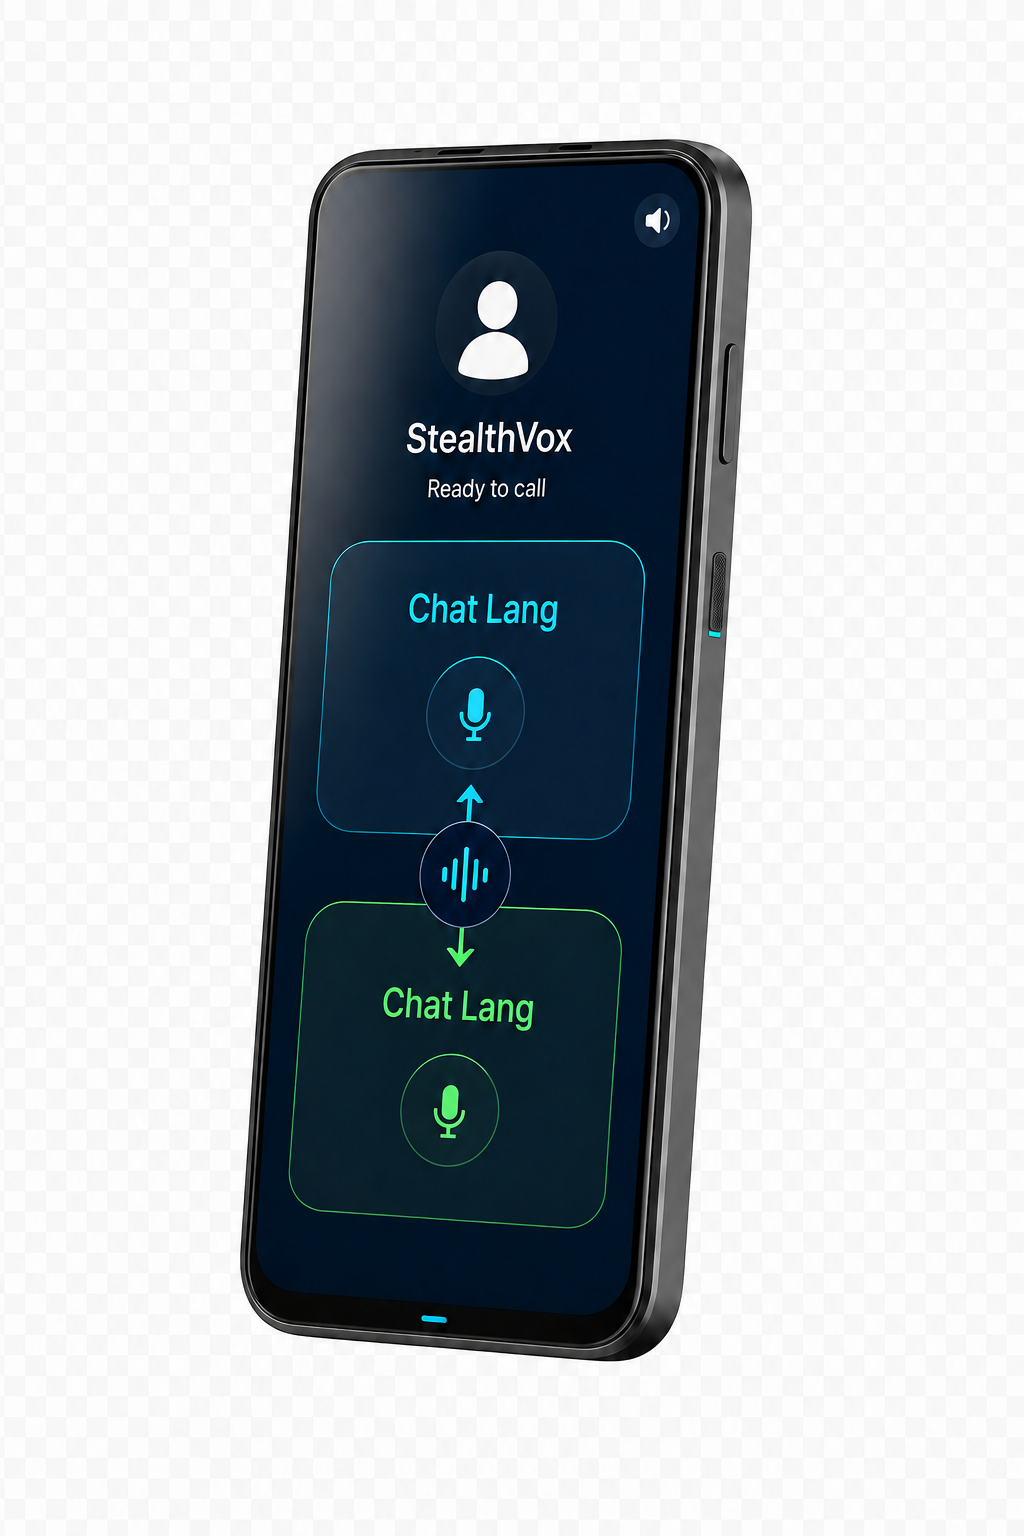
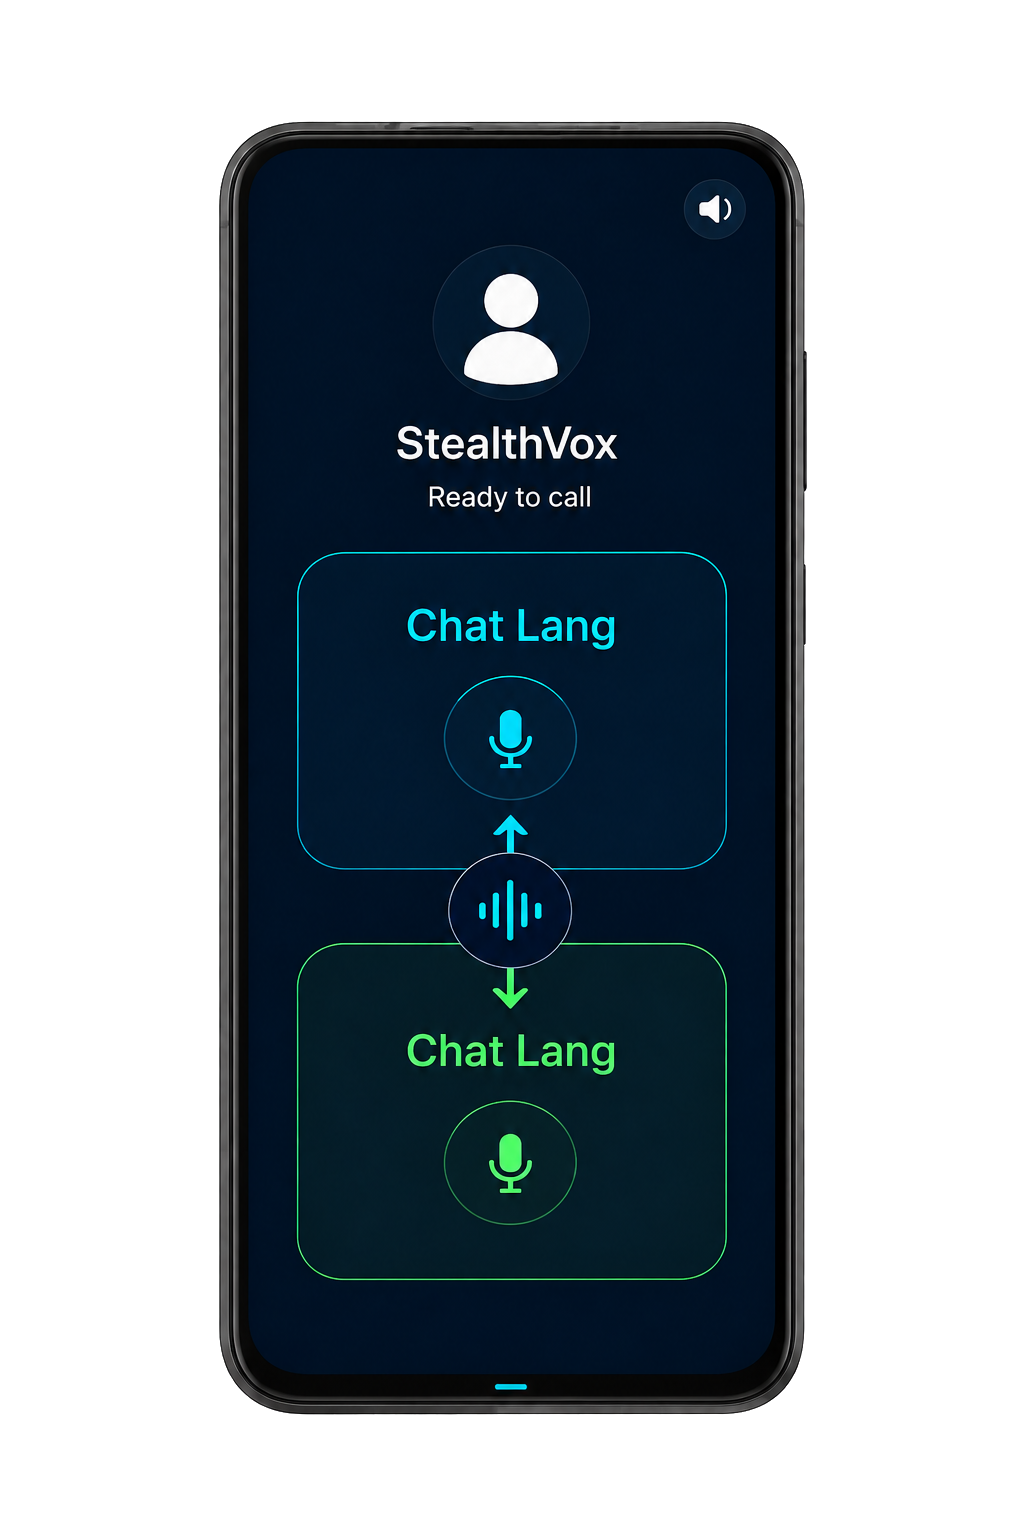
feat: Duo 통화 그림을 투명 배경으로 바꾸고 무대를 꽉 채운다
두 PNG 모두 알파가 없어 체커보드가 픽셀로 구워져 있었다. 가장자리에서
번지는 방식으로 배경만 지운다. 만능 통역은 정면 그림으로 갈고, 위에 있던
"나 / 상대" 언어 칩을 없애 두 방식이 같은 크기로 보이게 한다.

Changed region(s): [[0.1875, 0.0625, 0.8125, 0.9375]]

diff --git a/lib/custom_code/widgets/duo_stage.dart b/lib/custom_code/widgets/duo_stage.dart
@@ -1,24 +1,23 @@
 import 'package:flutter/material.dart';
 
 // ============================================================================
-// 🖼 [DUO-STAGE] 말풍선이 없을 때 화면 가운데를 채우는 그림들.
+// 🖼 [DUO-STAGE] 통화 화면 가운데를 채우는 그림들.
 //
-// 예전에는 두 방식 모두 안내 문장 한 줄이었다. 직접 대화는 양쪽이 들어오면
-// 마이크가 자동으로 켜지므로 시킬 일이 없고, 만능 통역은 "무슨 언어가 오가는지"가
-// 문장보다 훨씬 중요한 정보였다. 그래서 문장을 걷어내고 각자에게 맞는 그림을 둔다.
+// 두 방식 모두 자막을 만들지 않는다. 그래서 이 화면에는 글자가 없고, 방식마다
+// 그림 한 장이 무대를 통째로 쓴다. 예전에는 안내 문장 한 줄과 "나 / 상대"
+// 언어 칩이 있었는데, 직접 대화는 양쪽이 들어오면 마이크가 알아서 켜지므로
+// 시킬 일이 없고 언어쌍도 그림이 대신 말해 준다.
 //
 // **이 파일은 Firebase도 앱 상태도 모른다.** 필요한 값만 인자로 받는다.
 // 화면 없이 띄워 보고 눈으로 확인할 수 있어야 해서 일부러 갈라놨다.
 // ============================================================================
 
-const Color kDuoStageBg = Color(0xFF121212);
-const Color kDuoStagePanel = Color(0xFF1C1C1E);
-const Color kDuoStageLive = Color(0xFF34D399);
-const Color kDuoStageBlue = Color(0xFF2563EB);
-const Color kDuoStageMine = Color(0xFF93C5FD);
-const Color kDuoStageTheirs = Color(0xFF4ADE80);
-
-/// 직접 대화 — 제공된 직접 통화 이미지를 화면 중앙에 표시한다.
+/// 직접 대화 — 제공된 직접 통화 이미지를 무대 전체에 채운다.
+///
+/// 📐 이미지는 폰 주위가 **투명**이다. 그래서 폭·높이를 줄여 잡을 이유가 없다
+///   — 남는 자리는 어차피 배경이 그대로 비쳐 보인다. 예전에는 0.72×0.82로
+///   묶고 모서리를 둥글렸는데, 자를 것도 없는 그림을 작게 만들기만 했다.
+///   `contain`이라 비율은 그대로고 잘리지도 않는다.
 class DuoDirectStage extends StatelessWidget {
   const DuoDirectStage({
     super.key,
@@ -40,113 +39,25 @@ class DuoDirectStage extends StatelessWidget {
             ? 0.84
             : 0.62;
 
-    return LayoutBuilder(
-      builder: (context, constraints) => Center(
-        child: AnimatedOpacity(
-          duration: const Duration(milliseconds: 260),
-          opacity: opacity,
-          child: ConstrainedBox(
-            constraints: BoxConstraints(
-              maxWidth: constraints.maxWidth * 0.72,
-              maxHeight: constraints.maxHeight * 0.82,
-            ),
-            child: ClipRRect(
-              borderRadius: BorderRadius.circular(22),
-              child: Image.asset(
-                'assets/images/duo_direct_call.png',
-                fit: BoxFit.contain,
-                filterQuality: FilterQuality.high,
-              ),
-            ),
-          ),
+    return AnimatedOpacity(
+      duration: const Duration(milliseconds: 260),
+      opacity: opacity,
+      child: SizedBox.expand(
+        child: Image.asset(
+          'assets/images/duo_direct_call.png',
+          fit: BoxFit.contain,
+          filterQuality: FilterQuality.high,
         ),
       ),
     );
   }
 }
 
-/// 만능 통역 — 무슨 언어가 어디로 가는지.
+/// 만능 통역 — 제공된 통역기 이미지를 무대 전체에 채운다.
 ///
-/// 상대 언어는 세션 문서에서 받는다. 아직 모르면 `—`로 둔다 — 아무거나 채워
-/// 넣으면 사용자가 잘못된 언어쌍을 믿는다.
-class DuoLangPairBar extends StatelessWidget {
-  const DuoLangPairBar({super.key, required this.mine, this.theirs});
-
-  final String mine;
-  final String? theirs;
-
-  @override
-  Widget build(BuildContext context) {
-    return Padding(
-      padding: const EdgeInsets.fromLTRB(16, 4, 16, 10),
-      child: Row(
-        children: [
-          Expanded(
-              child: _LangChip(
-                  lang: mine, who: '나', color: kDuoStageMine, known: true)),
-          const Padding(
-            padding: EdgeInsets.symmetric(horizontal: 10),
-            child:
-                Icon(Icons.swap_horiz_rounded, color: Colors.white38, size: 22),
-          ),
-          Expanded(
-            child: _LangChip(
-                lang: theirs ?? '—',
-                who: '상대',
-                color: kDuoStageTheirs,
-                known: theirs != null),
-          ),
-        ],
-      ),
-    );
-  }
-}
-
-class _LangChip extends StatelessWidget {
-  const _LangChip(
-      {required this.lang,
-      required this.who,
-      required this.color,
-      required this.known});
-
-  final String lang;
-  final String who;
-  final Color color;
-  final bool known;
-
-  @override
-  Widget build(BuildContext context) {
-    return Container(
-      padding: const EdgeInsets.symmetric(vertical: 10, horizontal: 12),
-      decoration: BoxDecoration(
-        color: kDuoStagePanel,
-        borderRadius: BorderRadius.circular(14),
-        border: Border.all(
-            color: known
-                ? color.withValues(alpha: 0.45)
-                : const Color(0xFF33384A)),
-      ),
-      child: Column(
-        crossAxisAlignment: CrossAxisAlignment.start,
-        mainAxisSize: MainAxisSize.min,
-        children: [
-          Text(who,
-              style: const TextStyle(color: Colors.white38, fontSize: 11)),
-          const SizedBox(height: 2),
-          Text(lang,
-              maxLines: 1,
-              overflow: TextOverflow.ellipsis,
-              style: TextStyle(
-                  color: known ? color : Colors.white38,
-                  fontSize: 15,
-                  fontWeight: FontWeight.bold)),
-        ],
-      ),
-    );
-  }
-}
-
-/// 만능 통역 — 제공된 통역기 이미지를 화면 중앙에 표시한다.
+/// 📐 [DuoDirectStage]와 같은 규칙이다. 폰 주위가 투명이라 줄여 잡을 이유가
+///   없고, `contain`이라 비율도 그대로다. 두 방식의 그림 크기가 같아야
+///   방식을 오갈 때 화면이 덜컹거리지 않는다.
 class DuoInterpreterStage extends StatelessWidget {
   const DuoInterpreterStage({super.key, required this.recording});
 
@@ -154,25 +65,14 @@ class DuoInterpreterStage extends StatelessWidget {
 
   @override
   Widget build(BuildContext context) {
-    return LayoutBuilder(
-      builder: (context, constraints) => Center(
-        child: AnimatedOpacity(
-          duration: const Duration(milliseconds: 260),
-          opacity: recording ? 1 : 0.72,
-          child: ConstrainedBox(
-            constraints: BoxConstraints(
-              maxWidth: constraints.maxWidth * 0.72,
-              maxHeight: constraints.maxHeight * 0.82,
-            ),
-            child: ClipRRect(
-              borderRadius: BorderRadius.circular(22),
-              child: Image.asset(
-                'assets/images/duo_interpreter.png',
-                fit: BoxFit.contain,
-                filterQuality: FilterQuality.high,
-              ),
-            ),
-          ),
+    return AnimatedOpacity(
+      duration: const Duration(milliseconds: 260),
+      opacity: recording ? 1 : 0.72,
+      child: SizedBox.expand(
+        child: Image.asset(
+          'assets/images/duo_interpreter.png',
+          fit: BoxFit.contain,
+          filterQuality: FilterQuality.high,
         ),
       ),
     );

diff --git a/lib/custom_code/widgets/routine_mode_duo.dart b/lib/custom_code/widgets/routine_mode_duo.dart
@@ -64,6 +64,7 @@ const Duration kDuoDirectSaveTimeout = Duration(seconds: 3);
 const Duration kDuoDirectCurateTimeout = Duration(seconds: 15);
 const String kDuoModeInterpreter = 'interpreter';
 const String kInterpreterPartnerTtsVoice = 'alloy';
+
 /// 맛보기 직접 통화 길이. 폰 한 대에 딱 한 번만 주어진다.
 const int kDuoTrialCallSeconds = 600;
 
@@ -2289,7 +2290,8 @@ Do not output markdown, quotes, JSON, control tags, or surrounding commentary.
     );
     if (summary == null || summary.isEmpty) return;
     try {
-      await ref.update({'last_message': summary, 'conversation_summary': summary});
+      await ref
+          .update({'last_message': summary, 'conversation_summary': summary});
       debugPrint('[Duo][Summary] written len=${summary.length}');
     } catch (e) {
       debugPrint('[Duo][Summary] write failed=${e.runtimeType}');
@@ -2876,12 +2878,13 @@ Do not output markdown, quotes, JSON, control tags, or surrounding commentary.
                   //     글자를 띄우지 않는다. 오간 말은 오리지널만 히스토리로
                   //     보내고, 배울글(타겟)과 배울소리는 공부방이 만든다.
                   // 그래서 말풍선·글자 크기·원어 보기가 통째로 없다.
-                  if (_isDirectMode)
-                    Expanded(child: _buildDirectStage())
-                  else ...[
-                    _buildLangPairBar(),
-                    Expanded(child: _buildInterpreterStage()),
-                  ],
+                  // 위에 있던 "나 / 상대" 언어 칩도 없앴다 — 두 방식 모두
+                  // 그림 한 장만 두고, 그림이 무대를 꽉 채운다.
+                  Expanded(
+                    child: _isDirectMode
+                        ? _buildDirectStage()
+                        : _buildInterpreterStage(),
+                  ),
                   _buildControlArea(effectiveBottomPadding),
                 ],
               ),
@@ -2898,9 +2901,6 @@ Do not output markdown, quotes, JSON, control tags, or surrounding commentary.
         muted: _directMuted,
         partnerOnline: _isPartnerOnline,
       );
-
-  Widget _buildLangPairBar() =>
-      DuoLangPairBar(mine: _myNative(), theirs: _partnerChatLang);
 
   Widget _buildInterpreterStage() =>
       DuoInterpreterStage(recording: _duoState == 'recording');
@@ -3572,7 +3572,6 @@ Do not output markdown, quotes, JSON, control tags, or surrounding commentary.
       ),
     );
   }
-
 }
 
 class _DuoResolvedTurn {
@@ -3911,4 +3910,3 @@ Use only supplied indexes, at most once each, in original order. An empty turns 
     return clean.trim();
   }
 }
-
